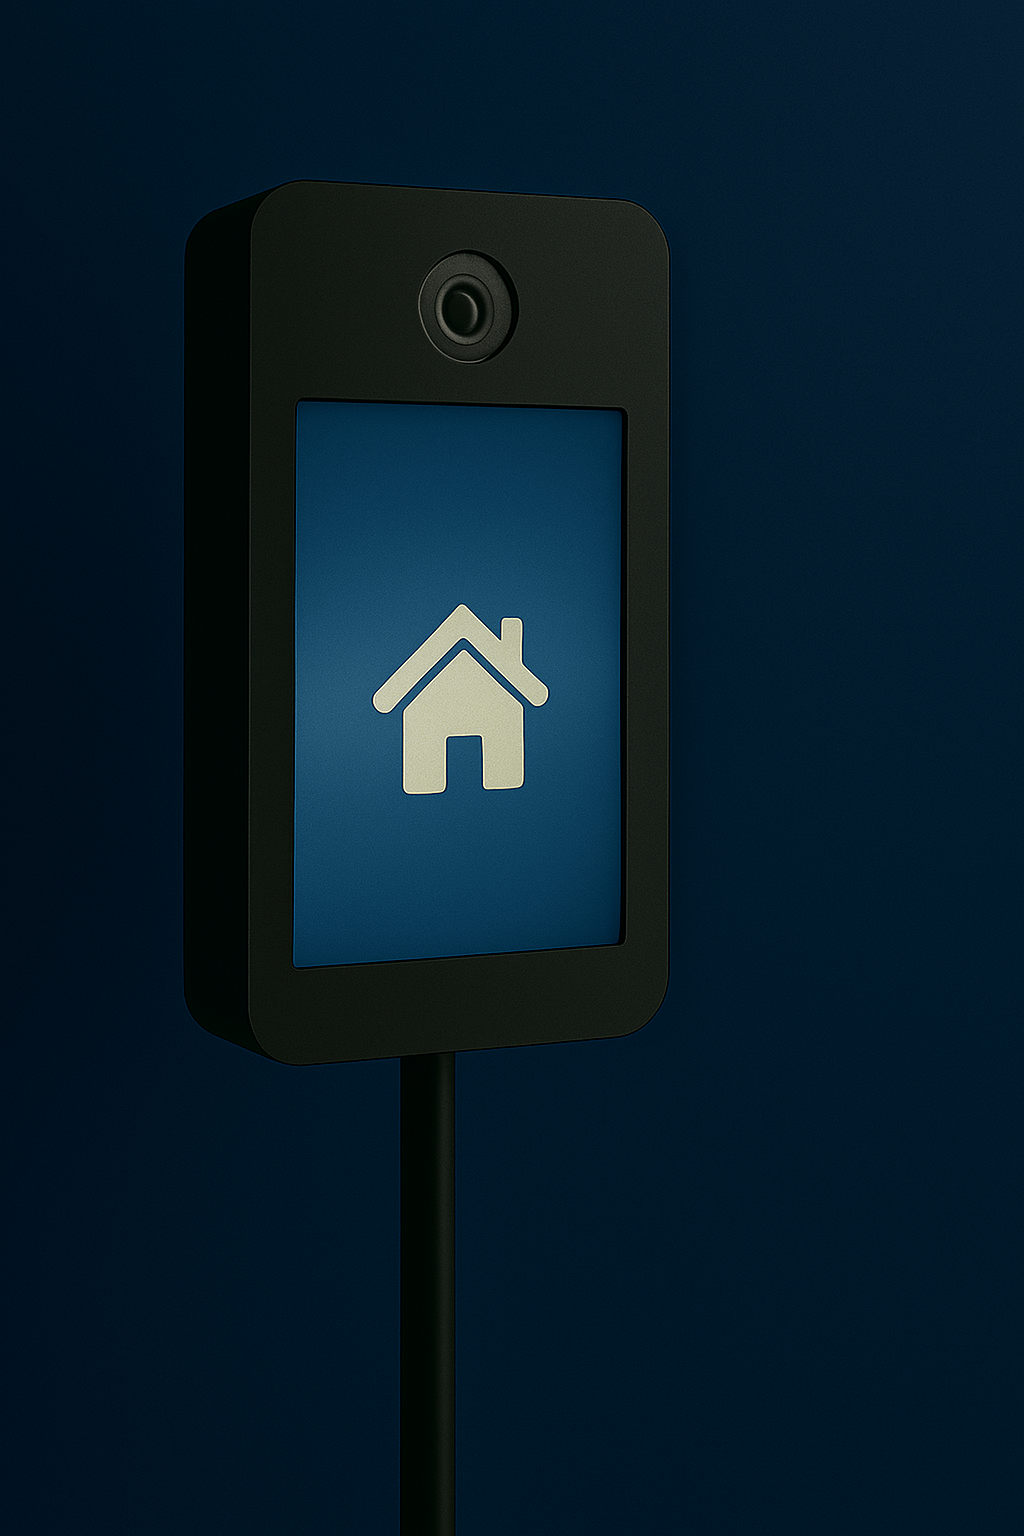
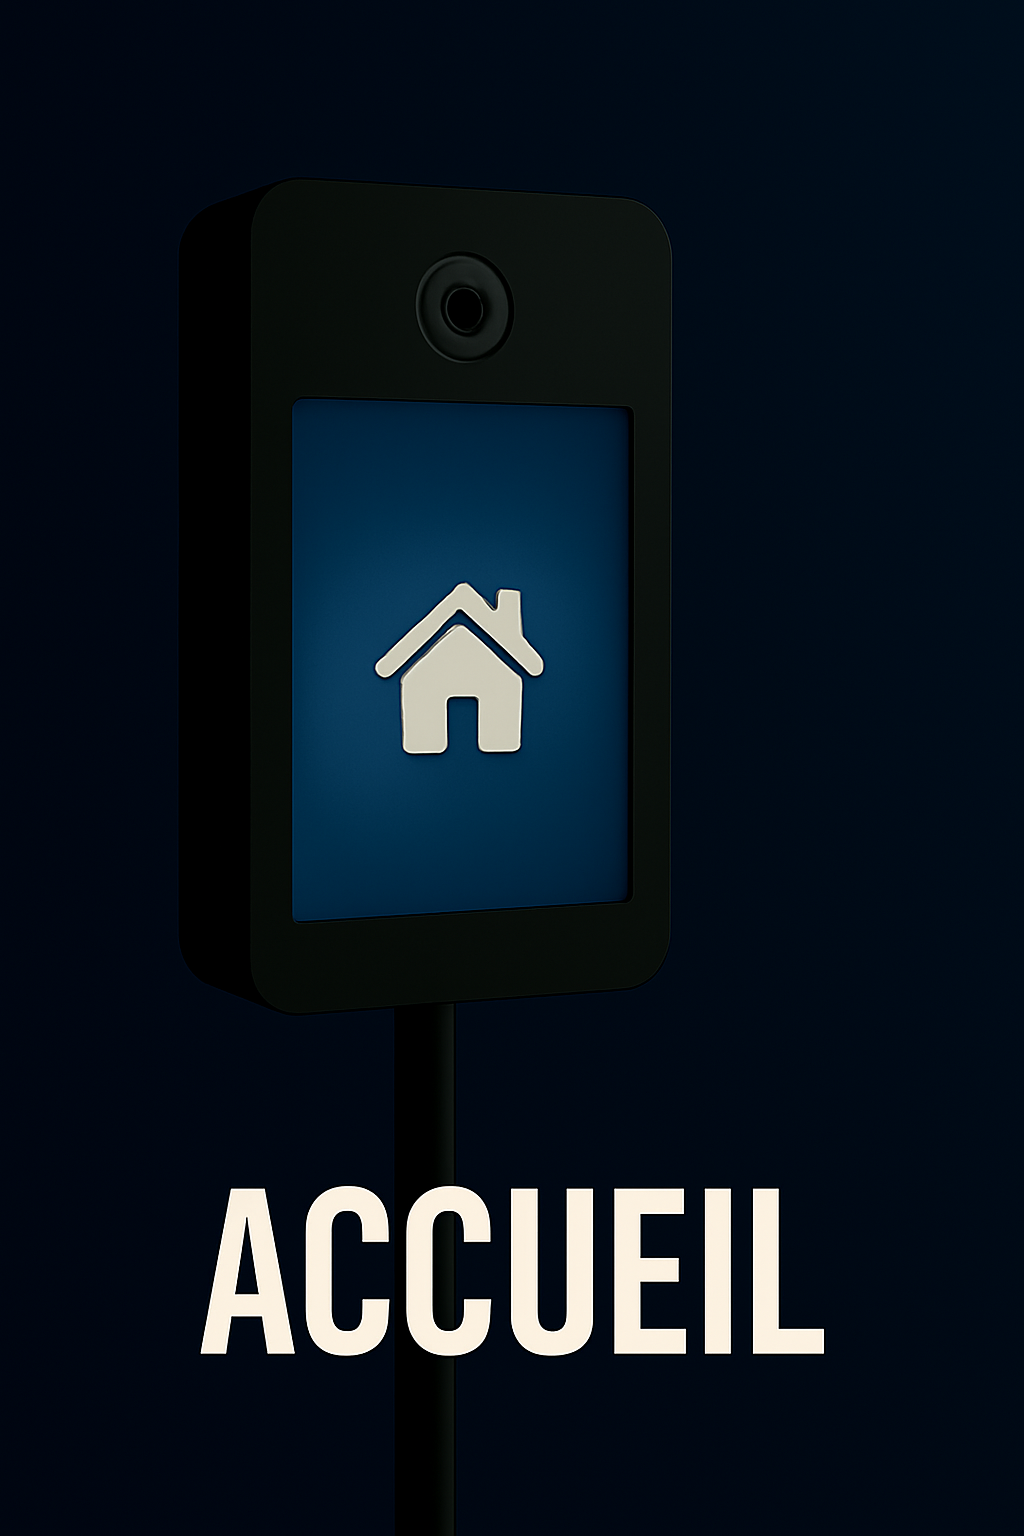
incohérence

diff --git a/index_wedding.html b/index_wedding.html
@@ -21,13 +21,11 @@
     <div class="container">
         <!-- Ligne du haut -->
         <div class="item">
-            <a class="popup-link" href="#" data-module="accueil" id="accueil-link">
-                <div class=" icon">
-                    <img src="img/video-home.png" alt="Accueil">
-                    <!-- <h3>ACCUEIL</h3> -->
-                </div>
+            <a class="icon popup-link" href="#" data-module="accueil" id="accueil-link">
+                <img src="img/video-home.png" alt="Accueil">
             </a>
         </div>
+
         <div class="item">
             <a href="https://vocalvideo.com/" id="option" data-module="livreor" class="icon popup-link">
                 <img src="./img/livreor.png" alt="Livre d'or">
@@ -73,7 +71,7 @@
 
         <div class="item">
             <a href="https://www.karafun.fr/" id="option" data-module="karaoke" class="icon popup-link">
-                <img src="./img/karaoke-ia.jpg" alt="Karaoke">
+                <img src="./img/karaoke-ia.png" alt="Karaoke">
                 <!-- <h3>KARAOKE</h3> -->
             </a>
         </div>

diff --git a/css/style_index.css b/css/style_index.css
@@ -174,7 +174,7 @@ body::before {
     left: 0;
     width: 100vw;
     height: 100vh;
-    background: white;
+    background: black;
     /* ou noir, ou autre */
     z-index: 9999;
     pointer-events: none;
